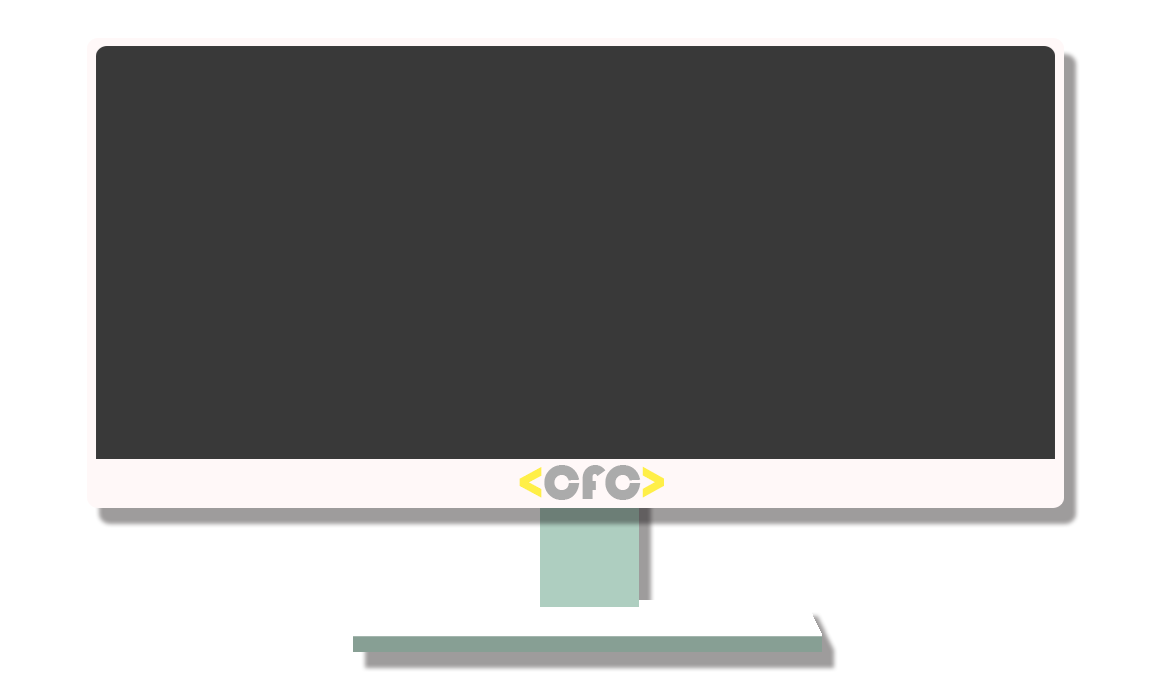
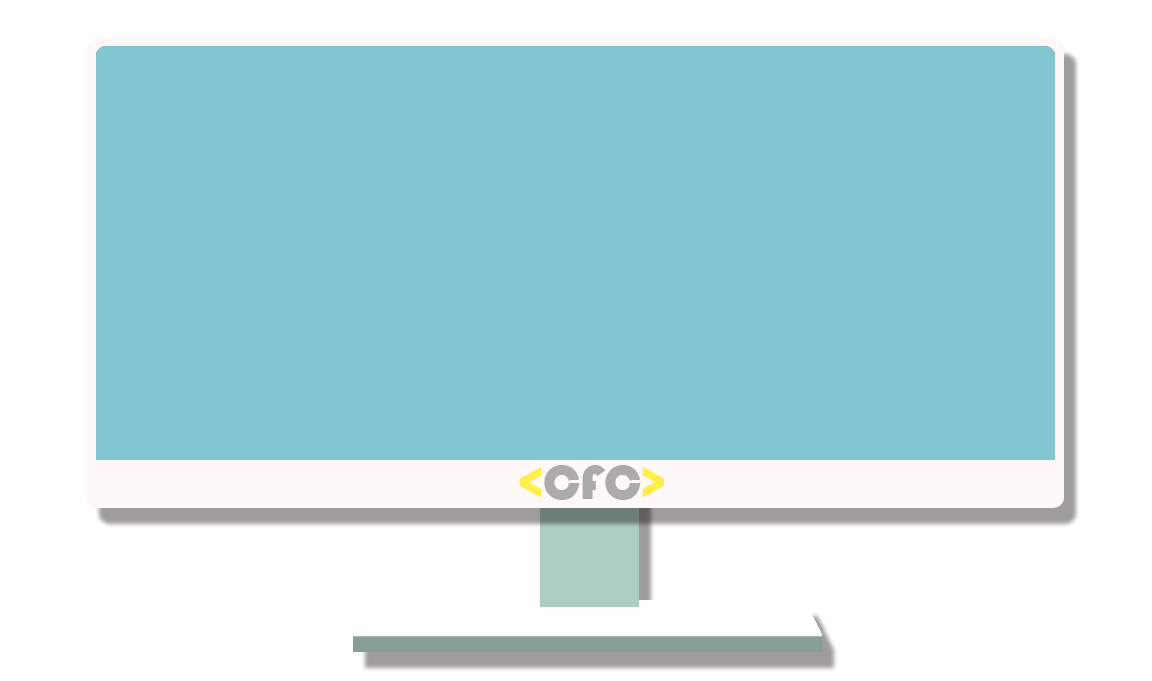
workShow arrow and layout

diff --git a/css/page2.css b/css/page2.css
@@ -57,7 +57,7 @@
     border-top-left-radius: 8.5px;
     border-top-right-radius: 8.5px;
     top: 36px;
-    background-color: #83c7d1;
+    background-color: #393939;
     display: none;
 
 }
@@ -88,3 +88,103 @@
         opacity: 0;
     }
 }
+
+#page2 #workShow #workShowScreen #arrow{
+    width: 685px;
+    position: absolute;
+    left: 50%;
+    transform: translate(-50%);
+    top: 44%;
+}
+
+@-webkit-keyframes workShowArrowLeftMove {
+    0%{
+        left: 0px;
+    }
+    50%{
+        left: -15px;
+    }
+    100%{
+        left: 0px;
+    }
+}
+
+@-webkit-keyframes workShowArrowRightMove {
+    0%{
+        left: 0px;
+    }
+    50%{
+        left: 15px;
+    }
+    100%{
+        left: 0px;
+    }
+}
+
+#page2 #workShow #workShowScreen #arrow #arrowLeft{
+    width: 35px;
+    height: 35px;
+    background-image: url("../png/arrow_left.png");
+    background-size: 100%;
+    position: relative;
+    float: left;
+}
+
+#page2 #workShow #workShowScreen #arrow #arrowLeft:hover{
+    -webkit-animation: workShowArrowLeftMove 0.8s;
+    -webkit-animation-iteration-count: infinite;
+}
+
+
+#page2 #workShow #workShowScreen #arrow #arrowRight{
+    width: 35px;
+    height: 35px;
+    background-image: url("../png/arrow_right.png");
+    background-size: 100%;
+    position: relative;
+    margin-left: 650px;
+}
+
+#page2 #workShow #workShowScreen #arrow #arrowRight:hover{
+    -webkit-animation: workShowArrowRightMove 0.8s;
+    -webkit-animation-iteration-count: infinite;
+}
+
+#page2 #workShow #workShowScreen #workShowWindow #workShowContent{
+    position: relative;
+    width: 600px;
+    height: 300px;
+    border: 1px solid #ff9900;
+    margin: auto;
+    top: 10px;
+    overflow: hidden;
+}
+
+#page2 #workShow #workShowScreen #workShowWindow .workShowContentSingle{
+    width: 600px;
+    height: 300px;
+    position: relative;
+    /*background-color: #5e7573;*/
+}
+
+#page2 #workShow #workShowScreen #workShowWindow .workShowContentSingle .workShowPhoto{
+    position: relative;
+    width: 540px;
+    height: 200px;
+    background-color: #ffffff;
+    border: 1px solid #ffffff;
+    margin: auto;
+    top: 10px;
+}
+
+#page2 #workShow #workShowScreen #workShowWindow .workShowContentSingle .workShowMessage{
+    position: relative;
+    width: 540px;
+    height: 60px;
+    border: 1px solid #303125;
+    margin: auto;
+    margin-top: 25px;
+    text-align: center;
+    color: #ffffff;
+}
+

diff --git a/cfc.html b/cfc.html
@@ -947,6 +947,23 @@
         <div id="workShowOpenBtu">
         </div>
         <div id="workShowScreen">
+            <div id="arrow">
+                <div id="arrowLeft"></div>
+                <div id="arrowRight"></div>
+            </div>
+            <div id="workShowWindow">
+                <div id="workShowContent">
+                    <div class="workShowContentSingle">
+                        <div class="workShowPhoto"></div>
+                        <div class=workShowMessage>
+                            you just too good to be true,can't
+                            take my eyes off you,you'd be like
+                            to haven too touch ,i never told you
+                            so much as long
+                        </div>
+                    </div>
+                </div>
+            </div>
         </div>
     </div>
 </div>

diff --git a/css/page1.css b/css/page1.css
@@ -103,7 +103,6 @@ body {
     height: 406px;
     margin: auto;
     top: 10px;
-    border:1px solid #303125;
     background-image: url(../png/home.png);
     background-size: 100%;
     background-repeat: no-repeat;
